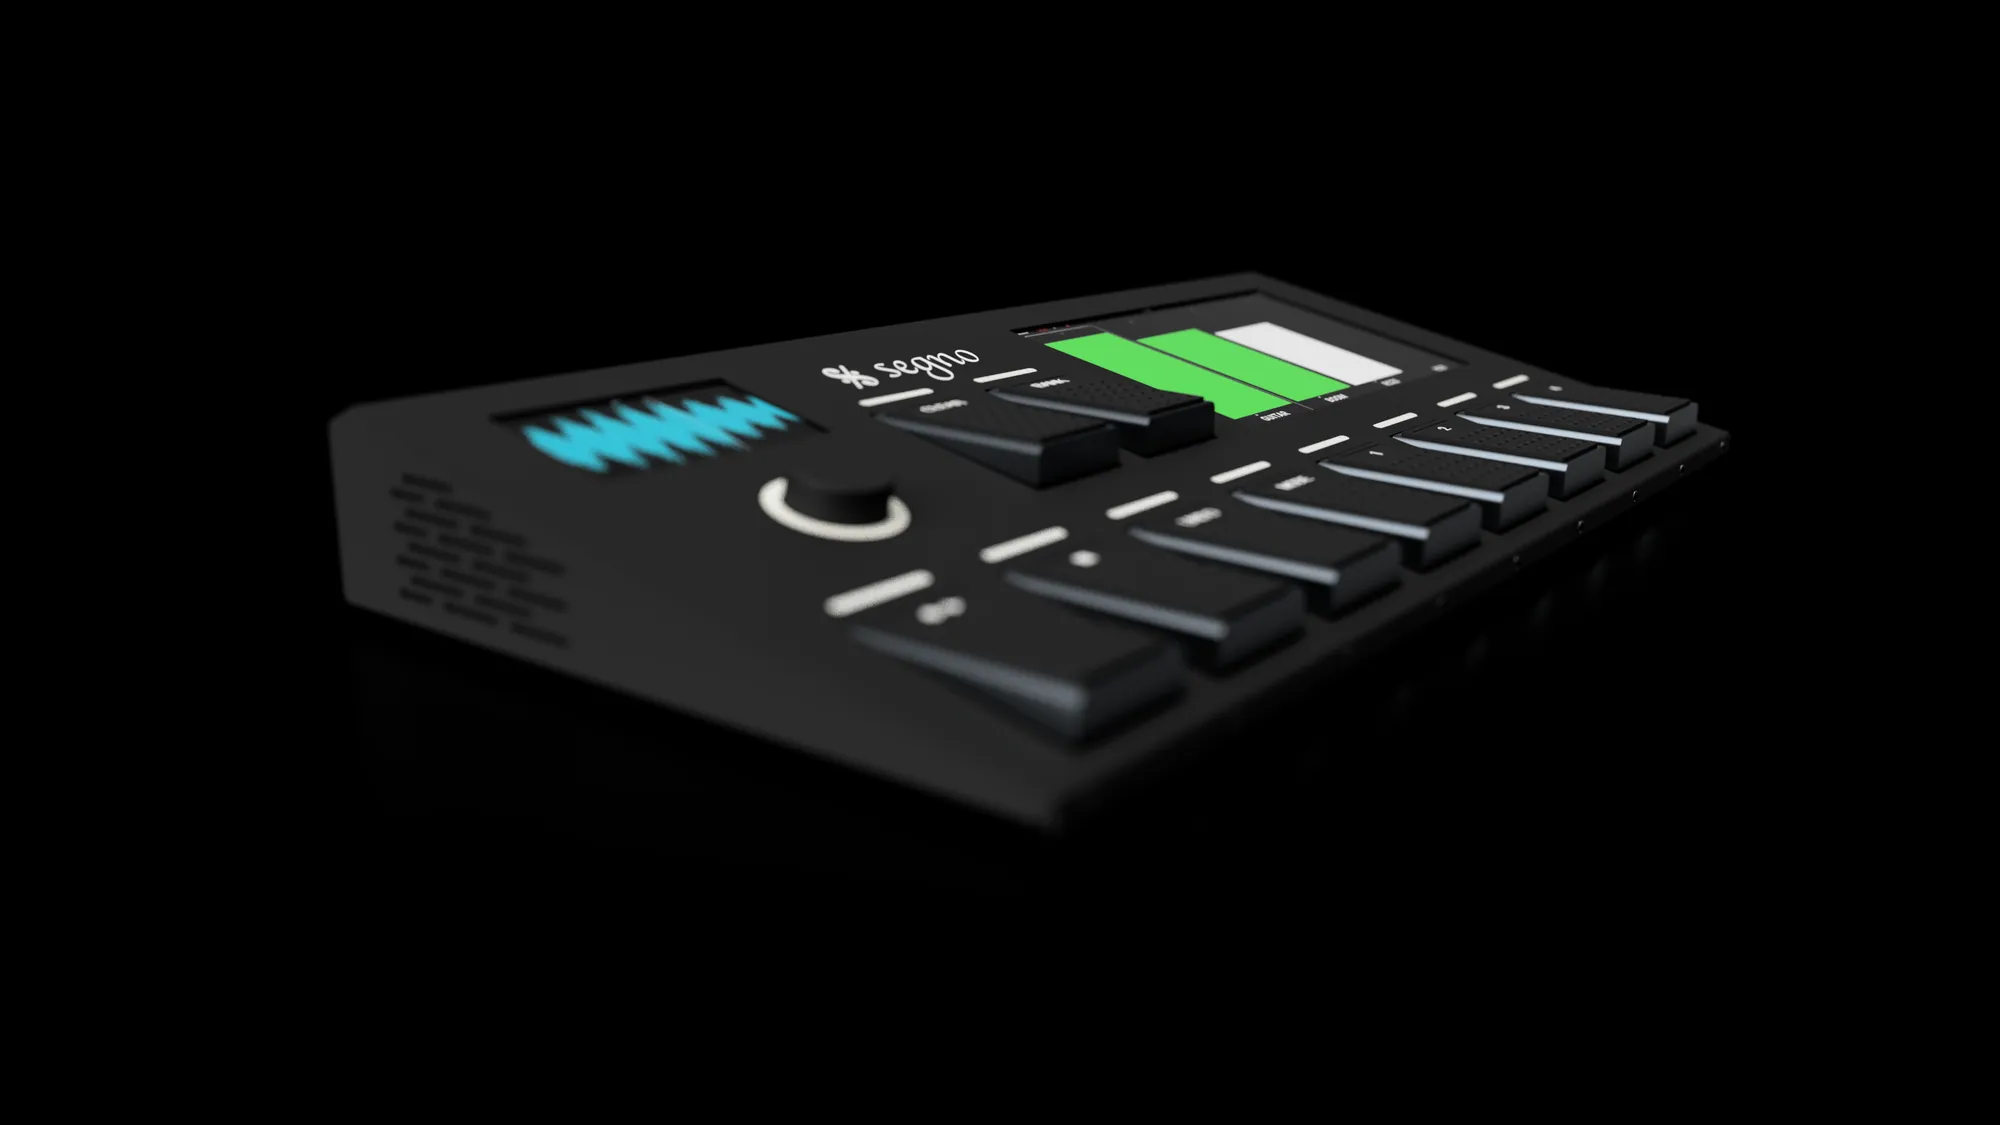
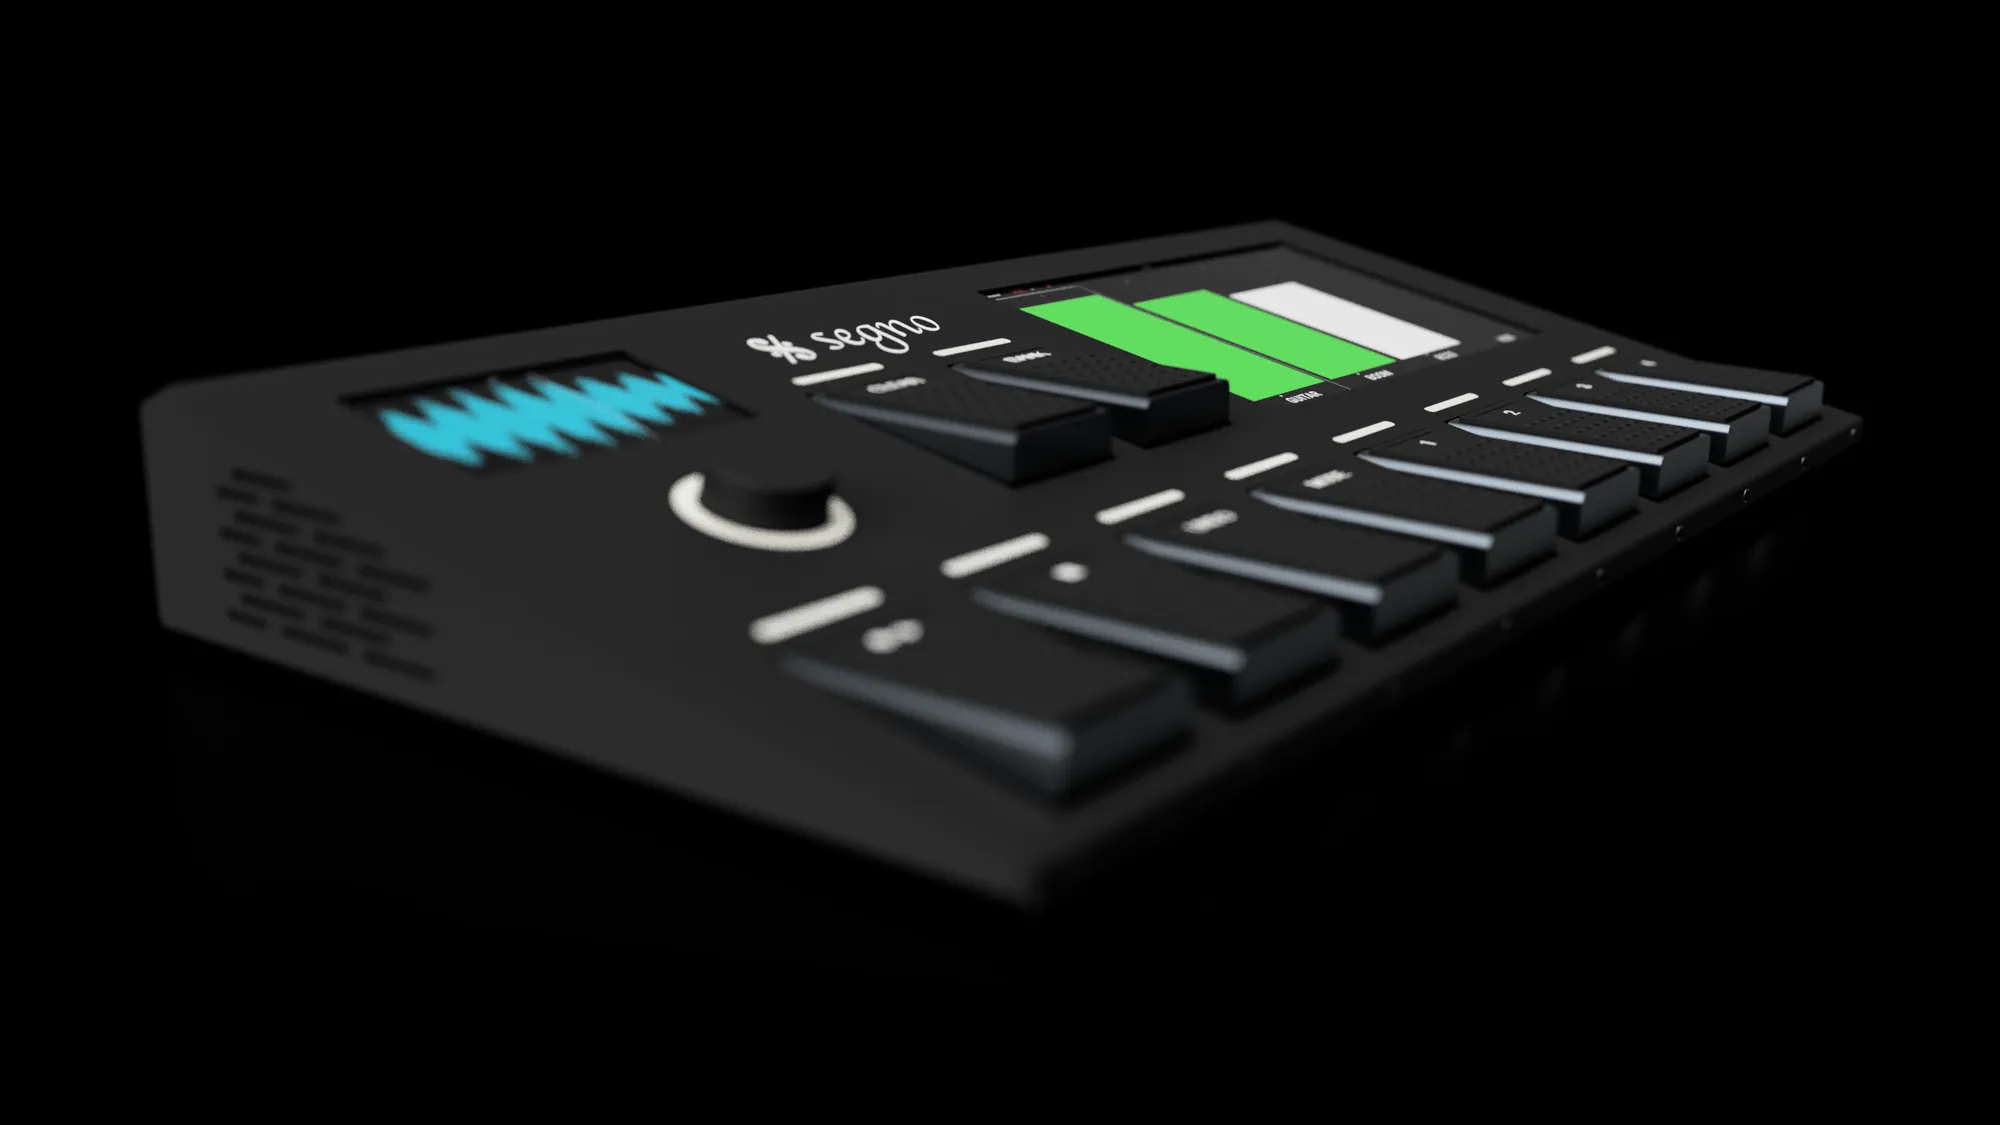
docs(site): centre the renders, phone navigation, asset versions, 404
- Re-crop every console render (hero, gallery, link preview) around the
  console's bounding box, so it sits in the middle of the frame.
- Phones keep the section links in a second header row; add a skip link.
- site/stamp.py versions every asset reference by content hash, nginx
  caches assets for a year, and the Site workflow fails on a stale version.
- Add a styled 404 page, robots.txt, sitemap.xml, a Twitter card tag and
  HSTS.
- Remove the #1409 row left in the Active threads table.

axe-core reports no violations in light or dark, on the page and the 404.

Closes #1415

Changed region(s): [[0.062, 0.1867, 0.93, 0.8089]]

diff --git a/site/public/index.html b/site/public/index.html
@@ -9,20 +9,22 @@
 <meta name="theme-color" content="#0b0b0c" media="(prefers-color-scheme: dark)">
 <meta name="theme-color" content="#f6f6f4" media="(prefers-color-scheme: light)">
 <link rel="canonical" href="https://segno.aquiles.dev/">
-<link rel="icon" href="favicon.svg" type="image/svg+xml">
+<link rel="icon" href="favicon.svg?v=3c135dbe" type="image/svg+xml">
 <meta property="og:type" content="website">
 <meta property="og:title" content="Segno: a live looping appliance">
 <meta property="og:description" content="A floor console, a native C audio engine and a Flutter interface on a Raspberry Pi 5. Open source under GPLv3.">
 <meta property="og:url" content="https://segno.aquiles.dev/">
-<meta property="og:image" content="https://segno.aquiles.dev/img/og.jpg">
+<meta property="og:image" content="https://segno.aquiles.dev/img/og.jpg?v=999b8210">
 <meta property="og:image:width" content="1200">
 <meta property="og:image:height" content="630">
 <meta property="og:image:alt" content="Render of the Segno floor console.">
-<link rel="preload" href="fonts/Inter-Regular.woff2" as="font" type="font/woff2" crossorigin>
-<link rel="preload" href="fonts/Inter-SemiBold.woff2" as="font" type="font/woff2" crossorigin>
-<link rel="stylesheet" href="styles.css">
+<meta name="twitter:card" content="summary_large_image">
+<link rel="preload" href="fonts/Inter-Regular.woff2?v=5fedeecb" as="font" type="font/woff2" crossorigin>
+<link rel="preload" href="fonts/Inter-SemiBold.woff2?v=a6a1a4db" as="font" type="font/woff2" crossorigin>
+<link rel="stylesheet" href="styles.css?v=a6fa5fa1">
 </head>
 <body>
+<a class="skip" href="#main">Skip to content</a>
 <svg class="sprite" aria-hidden="true">
   <symbol id="glyph" viewBox="0 0 1024 1024">
     <path transform="matrix(0.88590331 0 0 -0.88590331 266.60478372 836.24061069)" fill="currentColor" d="M135 665C141 665 148 663 151 652L153 645C160 618 175 559 226 559C267 559 295 583 295 626C295 641 292 657 287 673C271 719 204 736 153 736C83 736 4 650 4 551C4 527 9 502 20 477C52 404 197 315 205 312C209 310 211 308 211 304C211 300 209 295 205 288C198 274 54 15 54 15C52 11 51 6 51 2C51 -14 63 -27 79 -27C89 -27 99 -21 104 -12C104 -12 259 268 262 274C262 273 270 279 274 279C289 276 489 217 489 122C489 83 465 57 431 52L428 51C407 51 390 65 390 96V107C390 145 365 173 337 173C333 173 329 172 325 171C288 162 254 146 254 106C254 45 316 -8 375 -8C388 -8 402 -6 417 -1C497 26 550 91 550 174C550 183 549 193 548 203C533 313 375 402 363 408C351 415 346 419 346 424C346 426 347 428 348 430C353 438 508 717 508 717C511 722 512 726 512 731C512 747 499 759 484 759C474 759 464 754 459 745C459 745 300 458 294 449C291 444 289 441 285 441C282 441 279 442 275 444C266 447 115 505 89 550C83 561 75 582 75 603C75 630 87 658 129 665ZM415 466C415 435 441 409 472 409C504 409 529 435 529 466C529 498 504 523 472 523C441 523 415 498 415 466ZM140 264C140 295 115 321 83 321C52 321 26 295 26 264C26 232 52 207 83 207C115 207 140 232 140 264Z"/>
@@ -31,7 +33,7 @@
 
 <header class="bar">
   <div class="wrap bar-inner">
-    <a class="brand" href="#top" aria-label="Segno home">
+    <a class="brand" href="#main" aria-label="Segno, back to top">
       <svg class="brand-glyph" aria-hidden="true"><use href="#glyph"/></svg>
       <span class="brand-word">segno</span>
     </a>
@@ -44,7 +46,7 @@
   </div>
 </header>
 
-<main id="top">
+<main id="main" tabindex="-1">
   <section class="hero">
     <div class="wrap">
       <p class="eyebrow">Open source &middot; GPLv3</p>
@@ -56,8 +58,8 @@
       </div>
     </div>
     <figure class="hero-figure wrap">
-      <img src="img/console-iso-1200.webp"
-           srcset="img/console-iso-1200.webp 1200w, img/console-iso-2000.webp 2000w"
+      <img src="img/console-iso-1200.webp?v=d8154f14"
+           srcset="img/console-iso-1200.webp?v=d8154f14 1200w, img/console-iso-2000.webp?v=5b39a6c4 2000w"
            sizes="(min-width: 1200px) 1120px, 100vw"
            width="1200" height="675" fetchpriority="high"
            alt="The Segno console seen from above at an angle: ten footswitches with light bars, an encoder with a light ring, a small screen showing a waveform, and a large screen showing four tracks.">
@@ -110,12 +112,12 @@
       <p class="section-lede">The large screen shows the tracks and the mixer. The interface is a Flutter app that runs directly on the display hardware, one Flutter engine per screen.</p>
       <div class="shots">
         <figure>
-          <img src="img/tracks-main-window-1600.webp" width="1600" height="900" loading="lazy"
+          <img src="img/tracks-main-window-1600.webp?v=56dac517" width="1600" height="900" loading="lazy"
                alt="The Tracks view: four tracks named GUITAR, BOOM, RC20 and VOX with level meters, a timer and a BPM readout.">
           <figcaption>Tracks view.</figcaption>
         </figure>
         <figure>
-          <img src="img/tracks-mixer-window-1600.webp" width="1600" height="900" loading="lazy"
+          <img src="img/tracks-mixer-window-1600.webp?v=eb9b1342" width="1600" height="900" loading="lazy"
                alt="The mixer view: each track has mute and solo buttons, a pan control, a level in decibels and stereo meters.">
           <figcaption>Mixer view.</figcaption>
         </figure>
@@ -130,22 +132,22 @@
       <p class="section-lede">A wedge-shaped folded sheet-metal console, 850&nbsp;mm wide, with the top sloping toward the player. The ten footswitches are built into the chassis and wired inside it.</p>
       <div class="gallery">
         <figure class="wide">
-          <img src="img/console-low-1200.webp"
-               srcset="img/console-low-1200.webp 1200w, img/console-low-2000.webp 2000w"
+          <img src="img/console-low-1200.webp?v=d48be298"
+               srcset="img/console-low-1200.webp?v=d48be298 1200w, img/console-low-2000.webp?v=b2470c5f 2000w"
                sizes="(min-width: 1200px) 1120px, 100vw"
                width="1200" height="675" loading="lazy"
                alt="The console from a low angle at the left side, showing the ventilation slots, the waveform screen and the row of footswitches.">
         </figure>
         <figure>
-          <img src="img/console-rear-1200.webp"
-               srcset="img/console-rear-1200.webp 1200w, img/console-rear-2000.webp 2000w"
+          <img src="img/console-rear-1200.webp?v=e4e9c707"
+               srcset="img/console-rear-1200.webp?v=e4e9c707 1200w, img/console-rear-2000.webp?v=4c2ae073 2000w"
                sizes="(min-width: 760px) 50vw, 100vw"
                width="1200" height="675" loading="lazy"
                alt="The console seen from behind, showing the rear panel openings for connectors and a ventilation grille.">
         </figure>
         <figure>
-          <img src="img/console-edge-1200.webp"
-               srcset="img/console-edge-1200.webp 1200w, img/console-edge-2000.webp 2000w"
+          <img src="img/console-edge-1200.webp?v=fa1a1450"
+               srcset="img/console-edge-1200.webp?v=fa1a1450 1200w, img/console-edge-2000.webp?v=fe794d0c 2000w"
                sizes="(min-width: 760px) 50vw, 100vw"
                width="1200" height="675" loading="lazy"
                alt="The console seen almost edge-on along its top surface, with the footswitches and the large screen catching the light.">
@@ -167,7 +169,7 @@
           </ul>
         </div>
         <figure class="board">
-          <img src="img/console-board-1000.webp" width="1000" height="1000" loading="lazy"
+          <img src="img/console-board-1000.webp?v=ec4f0eb4" width="1000" height="1000" loading="lazy"
                alt="The console board v3: a purple circuit board with a Raspberry Pi Pico 2 in the middle, a 40-pin header for the Raspberry Pi, and labelled connectors for each footswitch, MIDI, the CTRL jacks, the LED pills and the ring board.">
           <figcaption>Console board v3, KiCad 3D view. Through-hole parts, designed to be soldered by hand.</figcaption>
         </figure>

diff --git a/site/public/styles.css b/site/public/styles.css
@@ -1,18 +1,18 @@
 @font-face {
   font-family: "Inter";
-  src: url("fonts/Inter-Regular.woff2") format("woff2");
+  src: url("fonts/Inter-Regular.woff2?v=5fedeecb") format("woff2");
   font-weight: 400;
   font-display: swap;
 }
 @font-face {
   font-family: "Inter";
-  src: url("fonts/Inter-SemiBold.woff2") format("woff2");
+  src: url("fonts/Inter-SemiBold.woff2?v=a6a1a4db") format("woff2");
   font-weight: 600;
   font-display: swap;
 }
 @font-face {
   font-family: "JetBrains Mono";
-  src: url("fonts/JetBrainsMono-Regular.woff2") format("woff2");
+  src: url("fonts/JetBrainsMono-Regular.woff2?v=13f9151f") format("woff2");
   font-weight: 400;
   font-display: swap;
 }
@@ -60,6 +60,20 @@ body {
   text-rendering: optimizeLegibility;
 }
 .sprite { position: absolute; width: 0; height: 0; }
+.skip {
+  position: absolute;
+  left: 16px;
+  top: -100px;
+  z-index: 20;
+  padding: 10px 16px;
+  border-radius: 8px;
+  background: var(--text);
+  color: var(--bg);
+  font-weight: 600;
+  text-decoration: none;
+}
+.skip:focus { top: calc(12px + env(safe-area-inset-top, 0px)); }
+main:focus { outline: none; }
 img { display: block; max-width: 100%; height: auto; }
 a { color: inherit; text-decoration-color: var(--line); text-underline-offset: 3px; }
 a:hover { text-decoration-color: currentColor; }
@@ -100,8 +114,19 @@ p { margin: 0; }
 }
 .nav a:hover { color: var(--text); background: var(--surface-2); }
 .nav .nav-source { color: var(--text); border: 1px solid var(--line); }
+/* Phones: the links move to a second row that scrolls sideways if it must. */
 @media (max-width: 620px) {
-  .nav a:not(.nav-source) { display: none; }
+  html { scroll-padding-top: 112px; }
+  .bar-inner { flex-wrap: wrap; height: auto; gap: 0; padding-block: 10px 6px; }
+  .nav {
+    width: calc(100% + 16px);
+    margin-inline: -8px;
+    padding-top: 4px;
+    overflow-x: auto;
+    scrollbar-width: none;
+  }
+  .nav a { flex: none; padding-inline: 8px; }
+  .nav .nav-source { margin-left: auto; }
 }
 
 /* Hero */
@@ -275,3 +300,8 @@ h2 { font-size: clamp(30px, 4.2vw, 44px); }
 .foot { border-top: 1px solid var(--line); padding-block: 28px calc(28px + env(safe-area-inset-bottom, 0px)); }
 .foot-inner { display: flex; flex-wrap: wrap; justify-content: space-between; gap: 8px 24px; font-size: 14px; color: var(--muted); }
 .foot-glyph { width: 18px; height: 18px; vertical-align: -4px; color: var(--text); }
+
+/* 404 page */
+.missing { min-height: 100vh; min-height: 100dvh; display: flex; flex-direction: column; justify-content: center; padding-block: 48px; }
+.missing-glyph { width: 64px; height: 64px; margin-bottom: 24px; }
+.missing .actions { margin-top: 28px; }

diff --git a/site/public/404.html b/site/public/404.html
@@ -1,0 +1,29 @@
+<!doctype html>
+<html lang="en">
+<head>
+<meta charset="utf-8">
+<meta name="viewport" content="width=device-width, initial-scale=1, viewport-fit=cover">
+<title>Page not found · Segno</title>
+<meta name="robots" content="noindex">
+<meta name="color-scheme" content="dark light">
+<link rel="icon" href="/favicon.svg?v=3c135dbe" type="image/svg+xml">
+<link rel="stylesheet" href="/styles.css?v=a6fa5fa1">
+</head>
+<body>
+<svg class="sprite" aria-hidden="true">
+  <symbol id="glyph" viewBox="0 0 1024 1024">
+    <path transform="matrix(0.88590331 0 0 -0.88590331 266.60478372 836.24061069)" fill="currentColor" d="M135 665C141 665 148 663 151 652L153 645C160 618 175 559 226 559C267 559 295 583 295 626C295 641 292 657 287 673C271 719 204 736 153 736C83 736 4 650 4 551C4 527 9 502 20 477C52 404 197 315 205 312C209 310 211 308 211 304C211 300 209 295 205 288C198 274 54 15 54 15C52 11 51 6 51 2C51 -14 63 -27 79 -27C89 -27 99 -21 104 -12C104 -12 259 268 262 274C262 273 270 279 274 279C289 276 489 217 489 122C489 83 465 57 431 52L428 51C407 51 390 65 390 96V107C390 145 365 173 337 173C333 173 329 172 325 171C288 162 254 146 254 106C254 45 316 -8 375 -8C388 -8 402 -6 417 -1C497 26 550 91 550 174C550 183 549 193 548 203C533 313 375 402 363 408C351 415 346 419 346 424C346 426 347 428 348 430C353 438 508 717 508 717C511 722 512 726 512 731C512 747 499 759 484 759C474 759 464 754 459 745C459 745 300 458 294 449C291 444 289 441 285 441C282 441 279 442 275 444C266 447 115 505 89 550C83 561 75 582 75 603C75 630 87 658 129 665ZM415 466C415 435 441 409 472 409C504 409 529 435 529 466C529 498 504 523 472 523C441 523 415 498 415 466ZM140 264C140 295 115 321 83 321C52 321 26 295 26 264C26 232 52 207 83 207C115 207 140 232 140 264Z"/>
+  </symbol>
+</svg>
+
+<main id="main" class="missing wrap">
+  <svg class="missing-glyph" aria-hidden="true"><use href="#glyph"/></svg>
+  <h1>Page not found</h1>
+  <p class="lede">There is nothing at this address.</p>
+  <div class="actions">
+    <a class="button primary" href="/">Go to the Segno page</a>
+    <a class="button" href="https://github.com/tomassasovsky/segno">View the source on GitHub</a>
+  </div>
+</main>
+</body>
+</html>

diff --git a/site/stamp.py b/site/stamp.py
@@ -1,0 +1,57 @@
+#!/usr/bin/env python3
+"""Version every local asset reference in the site by content hash.
+
+Each reference to a file under site/public (styles.css, favicon.svg, img/...,
+fonts/...) gets `?v=<first 8 hex of its sha256>`, so nginx can cache assets
+for a year and a changed file still reaches visitors at once.
+
+    python3 site/stamp.py           rewrite the references in place
+    python3 site/stamp.py --check   exit 1 if any reference is stale (CI)
+
+styles.css is stamped before the pages because its own hash covers the
+font references inside it.
+"""
+
+import hashlib
+import pathlib
+import re
+import sys
+
+PUBLIC = pathlib.Path(__file__).resolve().parent / "public"
+# styles.css first: the pages reference it, so its hash must be final.
+FILES = ["styles.css", "index.html", "404.html"]
+ASSET = re.compile(
+    r"(?<![\w.-])(?P<path>(?:img|fonts)/[\w.-]+\.(?:webp|jpg|png|svg|woff2)"
+    r"|styles\.css|favicon\.svg)(?:\?v=[0-9a-f]*)?"
+)
+
+
+def version(path: str) -> str:
+    return hashlib.sha256((PUBLIC / path).read_bytes()).hexdigest()[:8]
+
+
+def stamp(text: str) -> str:
+    return ASSET.sub(lambda m: f"{m['path']}?v={version(m['path'])}", text)
+
+
+def main() -> int:
+    check = "--check" in sys.argv[1:]
+    stale = []
+    for name in FILES:
+        file = PUBLIC / name
+        before = file.read_text(encoding="utf-8")
+        after = stamp(before)
+        if after != before:
+            stale.append(name)
+            if not check:
+                file.write_text(after, encoding="utf-8")
+    if check and stale:
+        print(f"stale asset versions in {', '.join(stale)}; run python3 site/stamp.py")
+        return 1
+    if not check:
+        print(f"stamped {', '.join(stale) or 'nothing (already current)'}")
+    return 0
+
+
+if __name__ == "__main__":
+    sys.exit(main())

diff --git a/site/README.md b/site/README.md
@@ -7,12 +7,27 @@ no build step and no JavaScript.
 
 ```
 public/index.html   the page
+public/404.html     the not-found page
 public/styles.css   light and dark palettes, phone layout
+public/robots.txt   and sitemap.xml
 public/img/         console renders, UI captures, the board view (WebP)
 public/fonts/       Inter and JetBrains Mono, subset to Latin-1 (OFL)
 nginx.conf          the server block inside the image
 Dockerfile          nginx:alpine with public/ baked in
+stamp.py            versions asset references by content hash
 ```
+
+## Asset versions
+
+Every reference to a local asset carries `?v=<hash>`, and nginx caches assets
+for a year. After changing any file under `public/`, run:
+
+```bash
+python3 site/stamp.py
+```
+
+The Site workflow runs `python3 site/stamp.py --check` and fails on a stale
+version.
 
 ## Preview
 
@@ -27,7 +42,10 @@ model, the board view from KiCad, and the interface images from the app's UI
 tests (`test/screenshots/goldens`). None of them is a photo, and the page says
 so. Do not use generated art.
 
-To add a render, convert it to WebP at 1200 and 2000 pixels wide:
+Crop renders so the console sits in the middle of the frame: centre the crop
+on the console's bounding box (the pixels brighter than the black background),
+not on the original frame. To add a render, convert it to WebP at 1200 and
+2000 pixels wide:
 
 ```bash
 magick render.png -resize 1200x -strip -quality 80 site/public/img/name-1200.webp

diff --git a/docs/PROGRESS.md b/docs/PROGRESS.md
@@ -45,7 +45,6 @@ the issue labels, which are authoritative; if a row disagrees, fix the row.
 | #1200 | Backing player | plan | merge-gate | `claude/backing-1200-*` |
 | #1202 | Shared render recipe, Bounce, Save selected | plan | merge-gate | `claude/render-1202-*` |
 | #1228 | MIDI clock | plan | merge-gate | `claude/midi-clock-1228-*` |
-| #1409 | Website at segno.aquiles.dev | build | merge-gate | `claude/website-1409` |
 | #1270 | Device and appliance pages | plan | merge-gate | `claude/device-pages-plan-1270` |
 | #1342 | Ring carrier firmware updates from the console | in-review | blocked-verify | `claude/ring-update-1342` |
 
